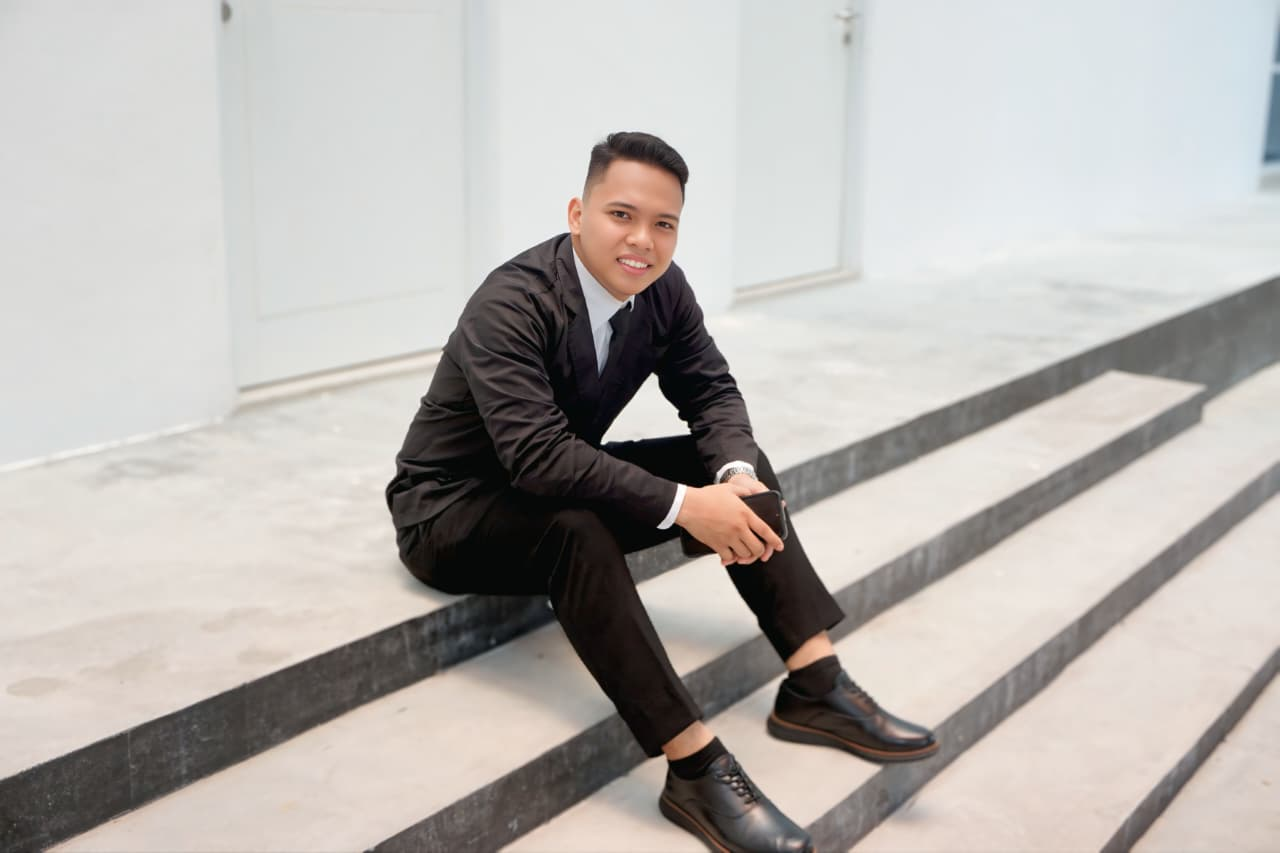
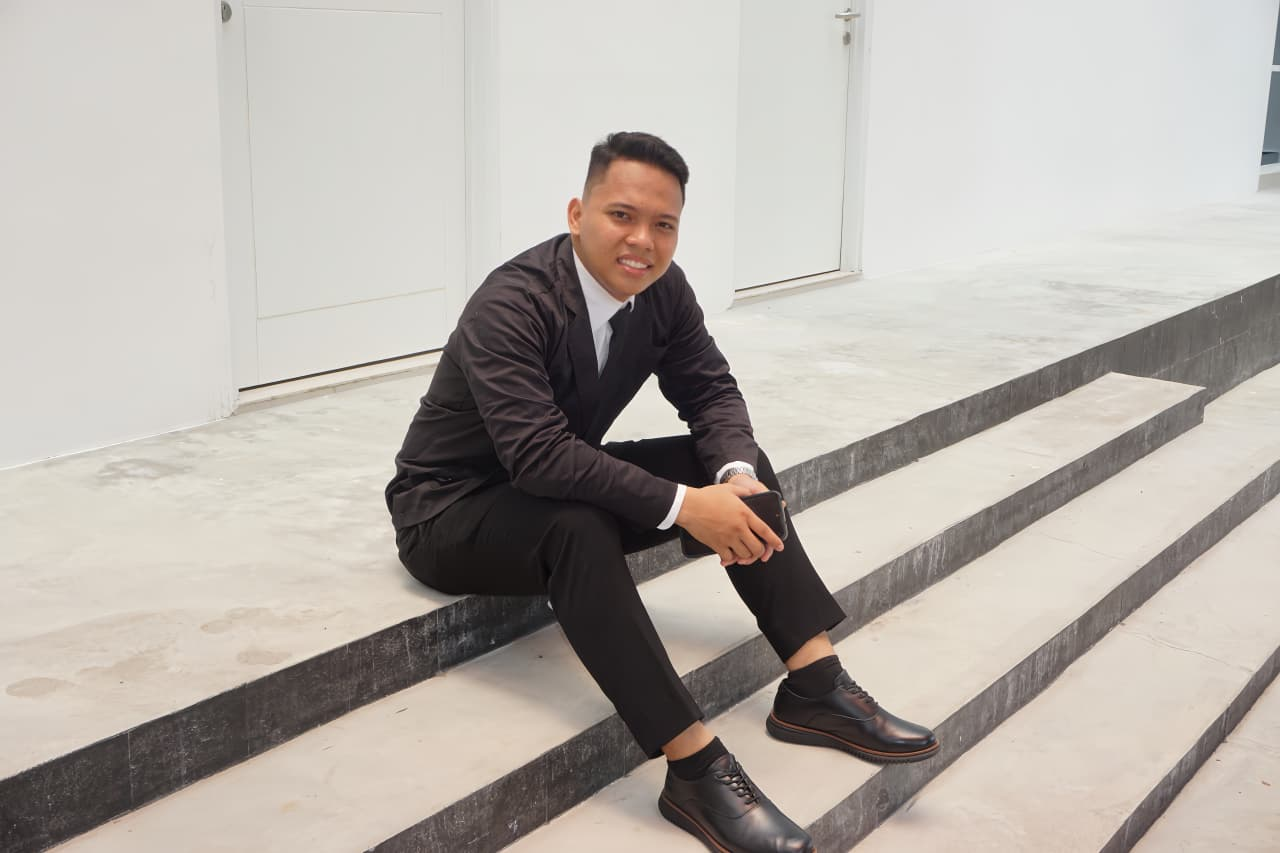
fiks

diff --git a/index.html b/index.html
@@ -920,15 +920,15 @@
         <img src="images/foto_project_admin_app.png" alt="Aplikasi Absensi" style="width:100%; height:100%; object-fit:contain;">
       </div>
       <div class="project-body">
-        <div class="project-name">Aplikasi Absensi PT. Souci Indoprima</div>
-        <p class="project-desc">Aplikasi yang digunakan karyawan untuk melakukan absensi setiap harinya. Melakukan pengajuan izin, lembur, dan cuti beserta dokumen pendukung.</p>
+        <div class="project-name">Aplikasi Daftar Kehadiran PT Souci Indoprima</div>
+        <p class="project-desc">Aplikasi yang digunakan karyawan untuk melakukan presensi setiap harinya. Melakukan pengajuan izin, lembur, dan cuti beserta dokumen pendukung.</p>
         <div class="project-tags"><span class="project-tag">Laravel</span><span class="project-tag">PHP</span><span class="project-tag">CSS</span><span class="project-tag">MySQL</span></div>
         <div style="display:flex; flex-direction:column; gap:0.3rem;">
           <button class="btn-sertifikat" onclick="openProject(
               [
                 'buktiPorto/absensi_app/absensi.png',
               ],
-              'Aplikasi Absensi Karyawan',
+              'Aplikasi Daftar Kehadiran Karyawan',
               'gallery'
             )">Lihat Project →
           </button>
@@ -941,8 +941,8 @@
         <img src="images/Admin_absensi.png" alt="Admin Absensi" style="width:100%; height:100%; object-fit:contain;">
       </div>
       <div class="project-body">
-        <div class="project-name">Admin Absensi PT. Souci Indoprima</div>
-        <p class="project-desc">Website admin absensi untuk memonitoring seluruh aktivitas karyawan seperti absensi, izin, sakit, dll.</p>
+        <div class="project-name">Admin Daftar Kehadiran PT. Souci Indoprima</div>
+        <p class="project-desc">Website admin Daftar Kehadiran untuk memonitoring seluruh aktivitas karyawan seperti absensi, izin, sakit, dll.</p>
         <div class="project-tags"><span class="project-tag">Laravel</span><span class="project-tag">PHP</span><span class="project-tag">CSS</span><span class="project-tag">MySQL</span></div>
         <div style="display:flex; flex-direction:column; gap:0.3rem;">
           <button class="btn-sertifikat" onclick="openProject(
